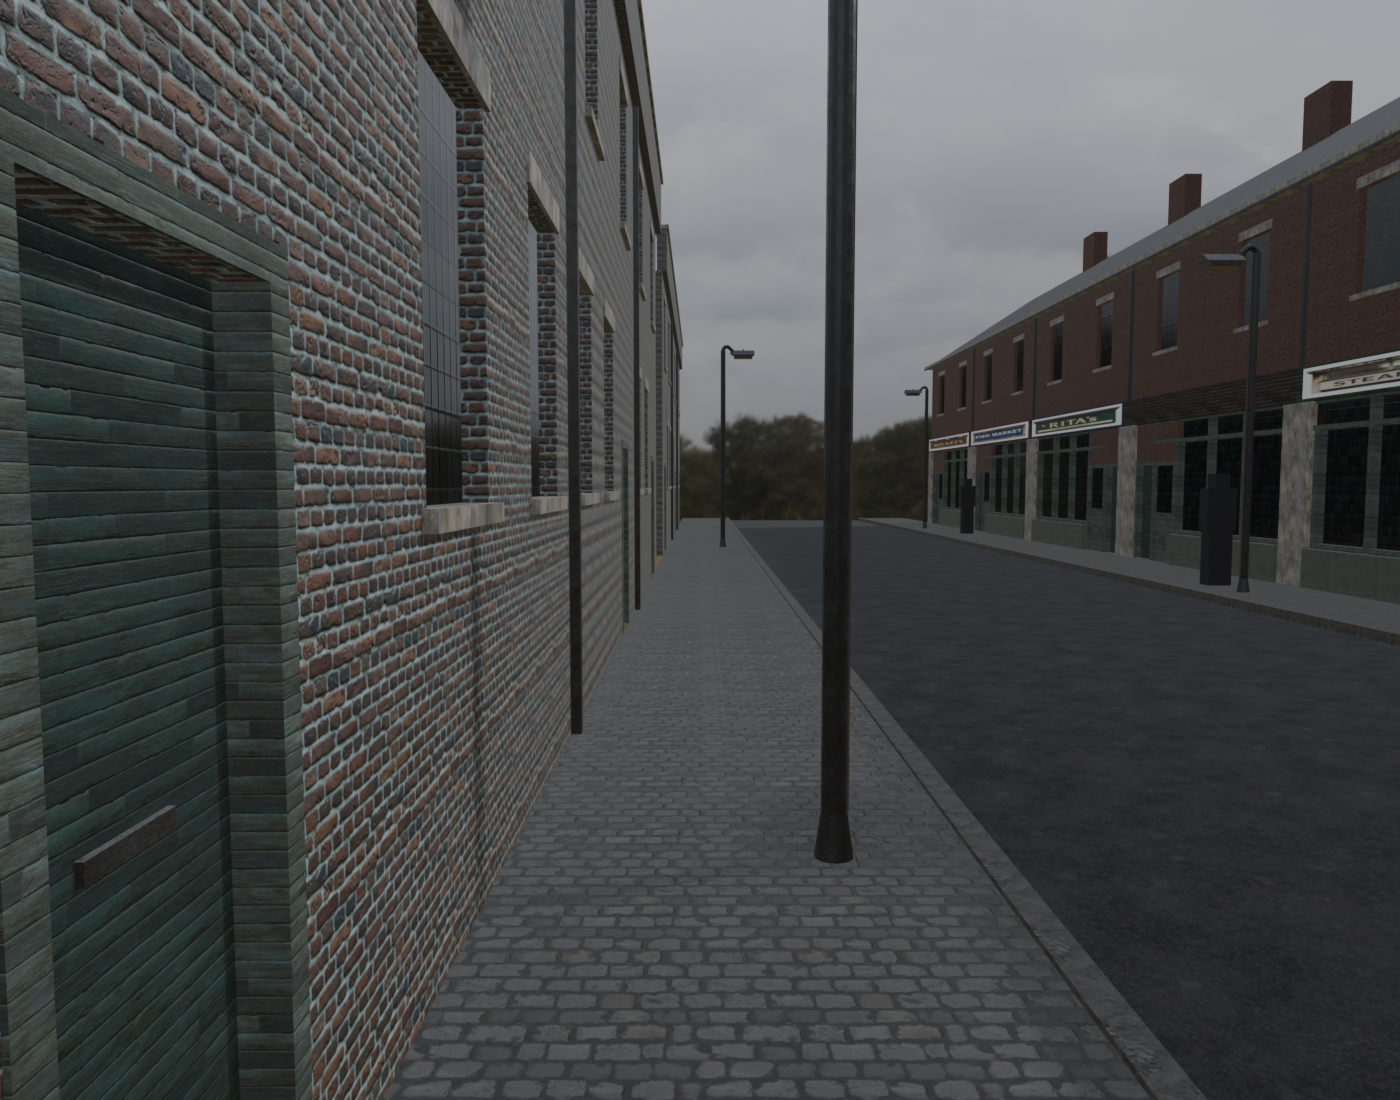
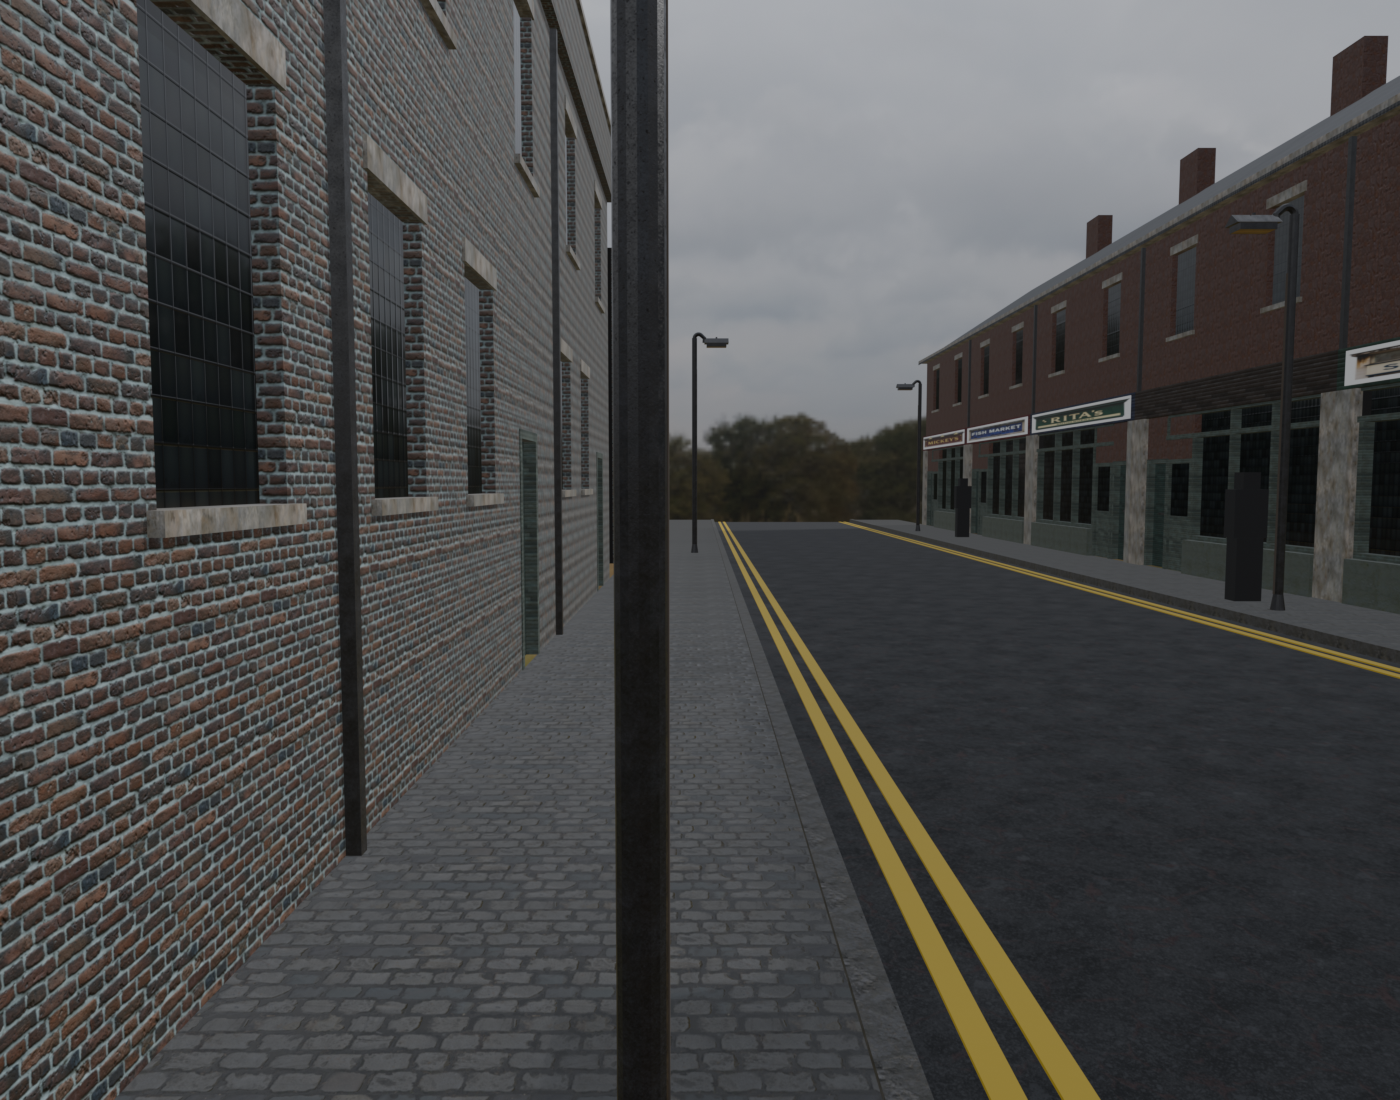
Double yellows, lit shop windows, and standing where a person would stand
Three things the pair asked for after signage.

THE DOUBLE YELLOWS ARE NOT MINE AND NOT NEW: two 100 mm bands 100 mm apart,
12 mm of paint, 0.25 m out from the kerb face, at the colour the scene file
carries and says where it got - the game s own Furniture.cs, which has been
painting this town s kerbs for months. A second opinion about the same yellow
would put two yellows in one project.

THE SHOP WINDOWS ARE LIT, at bays 0, 2 and 5, which is window_practicals
lit_bays in the piece file rather than a choice made here. They are lit in the
DAY frame too, and that is a departure from the scene file with a reason: it
marks the practicals off for overcast_day, but the Hook sheet s own street
panel IS overcast daylight and every trading shop in it glows warm from
inside. That is most of what makes its row read as open rather than
shuttered. Recorded in the recipe rather than changed in the spec, because
the spec is his.

AND THE CAMERA MOVED TWICE MORE. At the end of the row a third of the frame
was the west terrace s blank gable - no window, no door - where the sheet has
a FRONTAGE running away at a sharp angle. Two metres back inside the street
puts ours there. And 0.7 m further out from the wall, because at 0.825 m the
near brick filled a third of the picture and because nobody walks with their
shoulder on it.

diff --git a/tools/art-recipes/terrace-front.py b/tools/art-recipes/terrace-front.py
@@ -145,6 +145,16 @@ MATERIALS = (
     ("slate",       (0.026, 0.028, 0.032), 0.70),
     ("asphalt",     (0.016, 0.016, 0.018), 0.85),   # the carriageway, dark
     ("figure",      (0.014, 0.014, 0.016), 0.80),   # a person, read as a silhouette
+    # THE YELLOW IS NOT MINE AND NOT NEW. The scene file carries it as gamma
+    # sRGB (0.78, 0.66, 0.18) and says where it came from: the game's own
+    # Furniture.cs, which has been painting the town's kerbs since M17.10. A
+    # second opinion about the same yellow would put two yellows in one
+    # project. Converted to linear here because that is what a Blender socket
+    # holds, and nothing else about it is decided here.
+    ("paint_yellow",(0.571, 0.393, 0.027), 0.55),
+    # The lit shop interior, emissive. Its colour and its strength are the
+    # piece file's own window_practicals: gamma (1, 0.86, 0.62) at 1.6.
+    ("interior_lit",(1.000, 0.714, 0.344), 0.90),
     # THE LAMP'S OWN THREE, copied from tools/art-recipes/lighting-column.py's
     # MATERIALS rather than chosen again here, so the column in the street is
     # the column that was accepted. lens_amber is the spec's own sodium
@@ -288,6 +298,8 @@ SURFACE_OF = {
     "lead":         ("metal", 0.35),
     "steel_dark":   ("metal", 0.35),
     "interior":     (None, 0.0),
+    "paint_yellow": (None, 0.0),
+    "interior_lit": (None, 0.0),
     "figure":       (None, 0.0),
     "grime":        (None, 0.0),
     "lens_amber":   (None, 0.0),
@@ -974,6 +986,32 @@ def plan_street(root, spec_rel=SPEC_REL):
         c, d = sgn * (half + kerb_w), sgn * STREET_FRONTAGE_M
         _box(out, "footway_%s" % name, "paving", x0, x1, min(c, d), max(c, d),
              -0.30, THRESHOLD_ABOVE_CROWN_M, "2.0m/the-normal-British-footway")
+    # ---- the double yellow lines, MEASURED off the emitted piece list -----
+    # Two 0.1 m bands 0.1 m apart, 12 mm of paint, running the street's whole
+    # length at 2.5 and 2.7 m from the centre - which is 0.25 m out from the
+    # kerb face, the figure the scene file gives. Read from the pieces rather
+    # than re-derived, because the built street already has them and a second
+    # arithmetic would be a second street.
+    for sgn, side in ((1.0, "east"), (-1.0, "west")):
+        for n, across in enumerate((2.5, 2.7)):
+            a, b = sgn * across, sgn * (across + 0.1)
+            _box(out, "yellow_%s_%d" % (side, n), "paint_yellow", -2.0, 44.0,
+                 min(a, b), max(a, b), 0.0, 0.012,
+                 "100mm-band-100mm-apart/12mm-of-paint/0.25m-out-from-the-kerb-face")
+
+    # ---- the lit shop interiors ------------------------------------------
+    # AT BAYS 0, 2 AND 5, which is window_practicals.lit_bays in the piece
+    # file and not a choice made here. A card 1.2 m behind the frontage, the
+    # depth the shopfront block gives, lit at the file's own colour.
+    q, _e2 = load_spec(root, spec_rel, "east_parade")
+    for bay in (0, 2, 5):
+        bx = q["start_x_m"] + bay * q["bay_width_m"]
+        _box(out, "interior_card_%d" % bay, "interior_lit",
+             bx + 0.5, bx + q["bay_width_m"] - 0.5,
+             STREET_FRONTAGE_M + 1.2, STREET_FRONTAGE_M + 1.24,
+             THRESHOLD_ABOVE_CROWN_M + 0.6, THRESHOLD_ABOVE_CROWN_M + 2.6,
+             "the-lit-back-of-the-shop/1.2m-in/window_practicals.lit_bays")
+
     _figures(out)
     lamps, lerr = lamp_parts(root)
     if lerr:
@@ -1420,8 +1458,20 @@ def street_cameras():
             # flank wall. Turned to look back down the street, which puts them
             # there and costs nothing: the street is symmetrical about its own
             # length and the parade runs its whole length either way.
-            "loc": (4.0 + reach, -4.3, eye),
-            "look": (4.0, -4.3, eye - drop),
+            # INSIDE THE STREET, NOT PAST THE END OF IT. At x = 42 the camera
+            # stood level with the last bay of the west row and the whole left
+            # third of the frame was that row's blank gable end - no window,
+            # no door, nothing. The sheet's near-left is a FRONTAGE seen at a
+            # sharp angle, with its windows and its doorway running away. Two
+            # metres back inside the row puts ours there too.
+            #
+            # AND 0.7 m FURTHER OUT FROM THE WALL. At 0.825 m from the
+            # frontage the near wall filled a third of the picture; the
+            # sheet's is nearer a metre and a half, which is also simply
+            # where a person walks - nobody walks with their shoulder on the
+            # brick.
+            "loc": (40.0, -3.6, eye),
+            "look": (2.0, -3.6, eye - drop),
             "fov_v_deg": 60.0,
             "note": "the-sheet's-own-viewpoint/1.6m-on-the-far-footway/4-degrees-down/"
                     "cam_A's-height-field-and-pitch-from-the-side-the-sheet-stands-on",
@@ -1749,6 +1799,12 @@ def _night(bpy, root, mats):
             bsdf.inputs["Emission Color"].default_value = (0.780, 0.360, 0.040, 1.0)
             bsdf.inputs["Emission Strength"].default_value = 3.0
 
+    lit = mats.get("interior_lit")
+    if lit is not None and lit.use_nodes:
+        b2 = lit.node_tree.nodes.get("Principled BSDF")
+        if b2 is not None and "Emission Color" in b2.inputs:
+            b2.inputs["Emission Color"].default_value = (1.0, 0.714, 0.344, 1.0)
+            b2.inputs["Emission Strength"].default_value = 2.2
     for n, (lx, ly, lz) in enumerate(lantern_lights()):
         data = bpy.data.lights.new("lantern%d" % n, type="POINT")
         # 2200 W IS A RENDER CHOICE AND NOT A LAMP SPECIFICATION. A 1990
@@ -1945,6 +2001,19 @@ def build_and_render(args):
         world_note = _night(bpy, args["root"], mats)
     else:
         world_note = _world(bpy, args["root"])
+    # THE SHOP WINDOWS ARE LIT IN BOTH CONDITIONS, and that is a departure
+    # from the scene file with a reason. It marks window_practicals "off" for
+    # overcast_day - but the Hook sheet's own street panel is overcast
+    # DAYLIGHT and every trading shop in it glows warm from inside, which is
+    # what a British shop with the lights on looks like against a grey sky and
+    # is most of what makes that row read as OPEN rather than shuttered.
+    # Recorded here rather than changed in the spec, because the spec is his.
+    lit = mats.get("interior_lit")
+    if lit is not None and lit.use_nodes:
+        b3 = lit.node_tree.nodes.get("Principled BSDF")
+        if b3 is not None and "Emission Color" in b3.inputs:
+            b3.inputs["Emission Color"].default_value = (1.0, 0.714, 0.344, 1.0)
+            b3.inputs["Emission Strength"].default_value = 2.2 if night else 3.4
     if street:
         # THE SCENE FILE'S OWN WETNESS FOR THE CONDITION ASKED FOR, rather
         # than wet at night and bone dry by day, which is what the first
